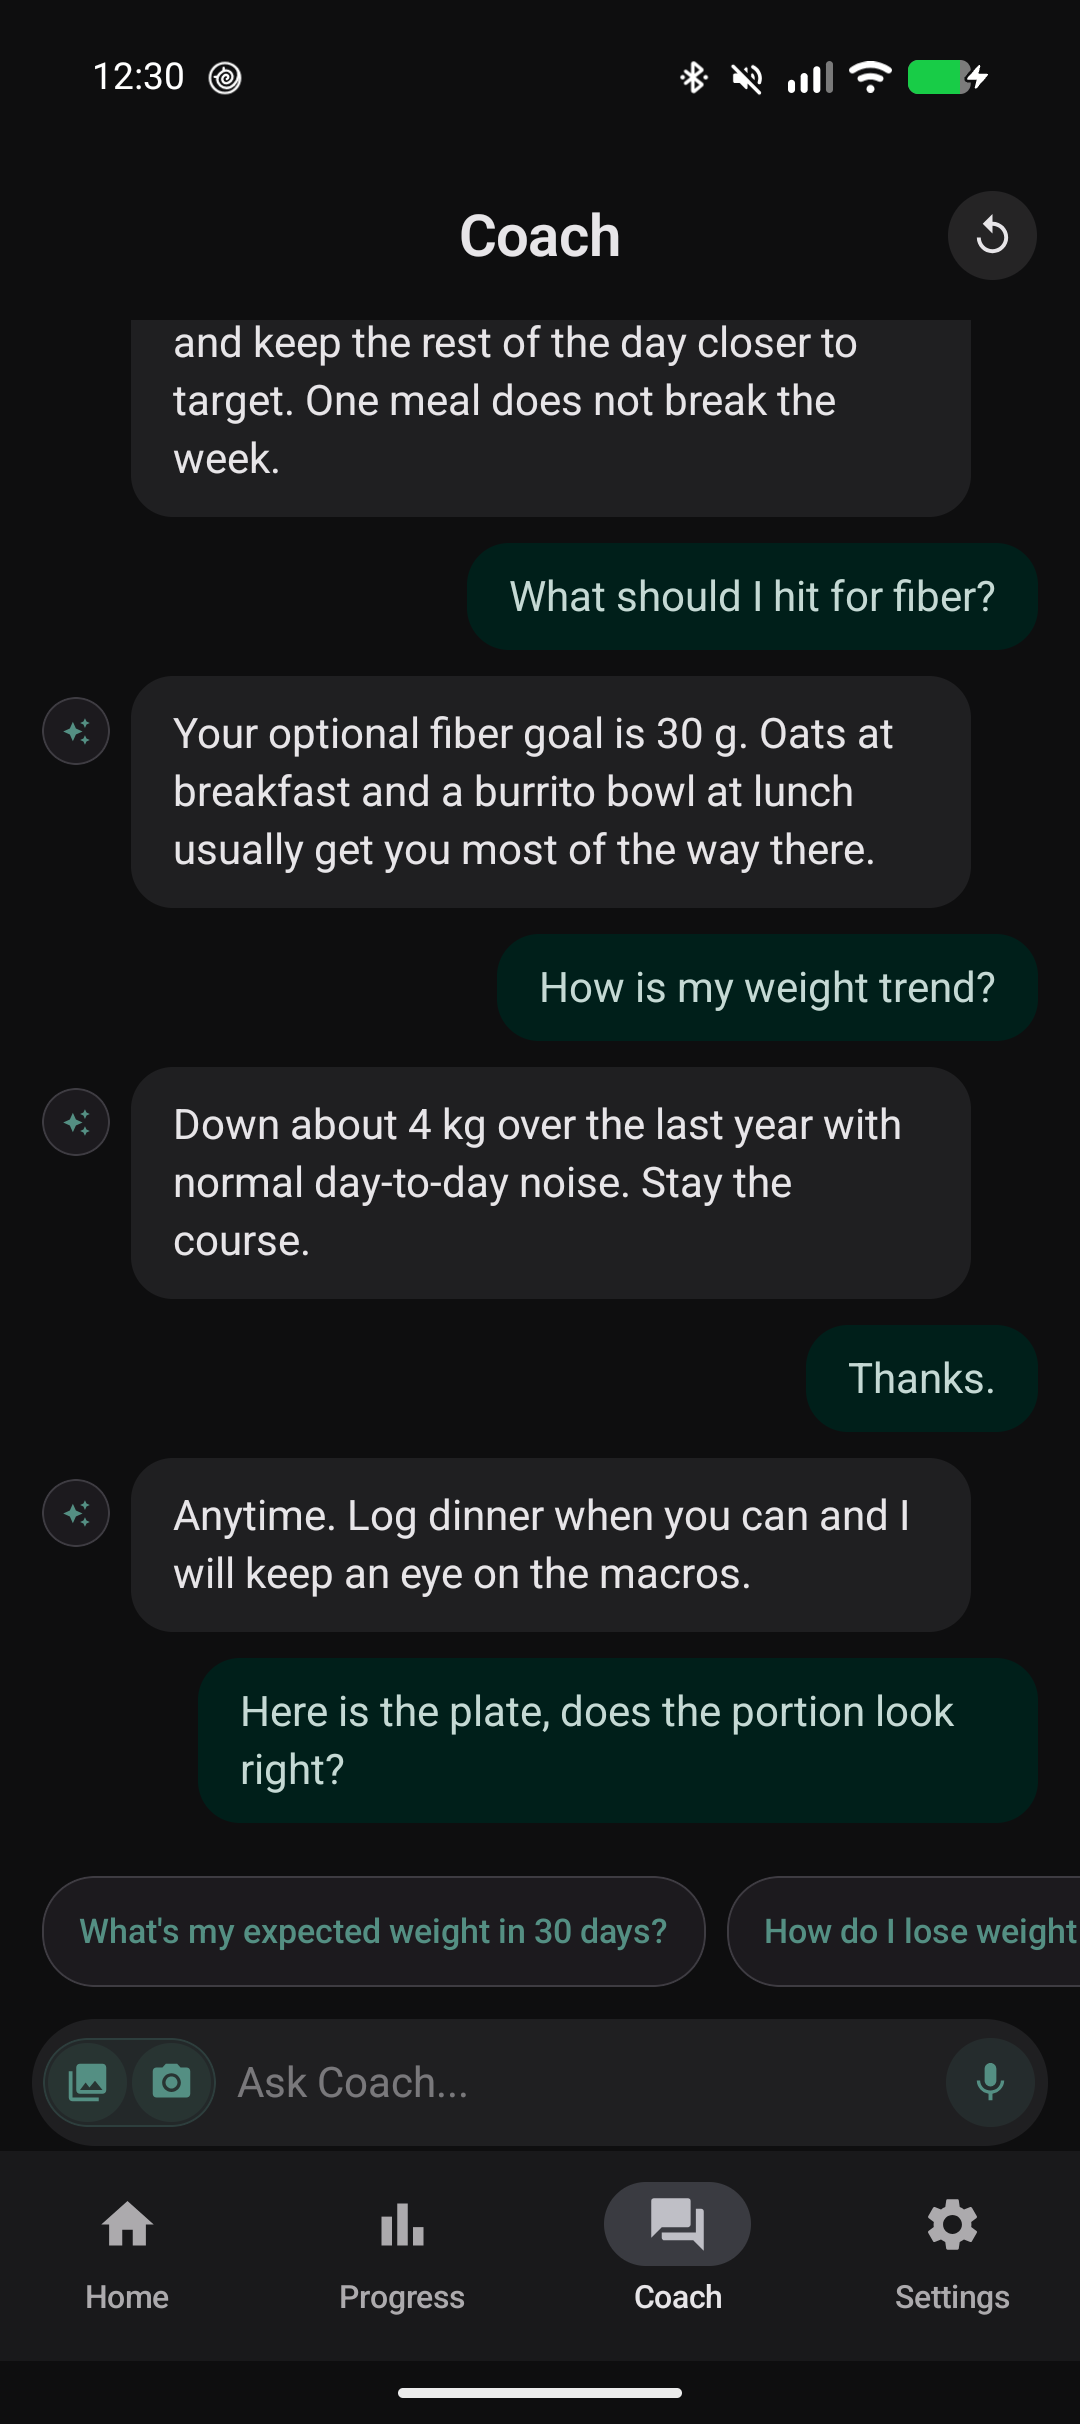
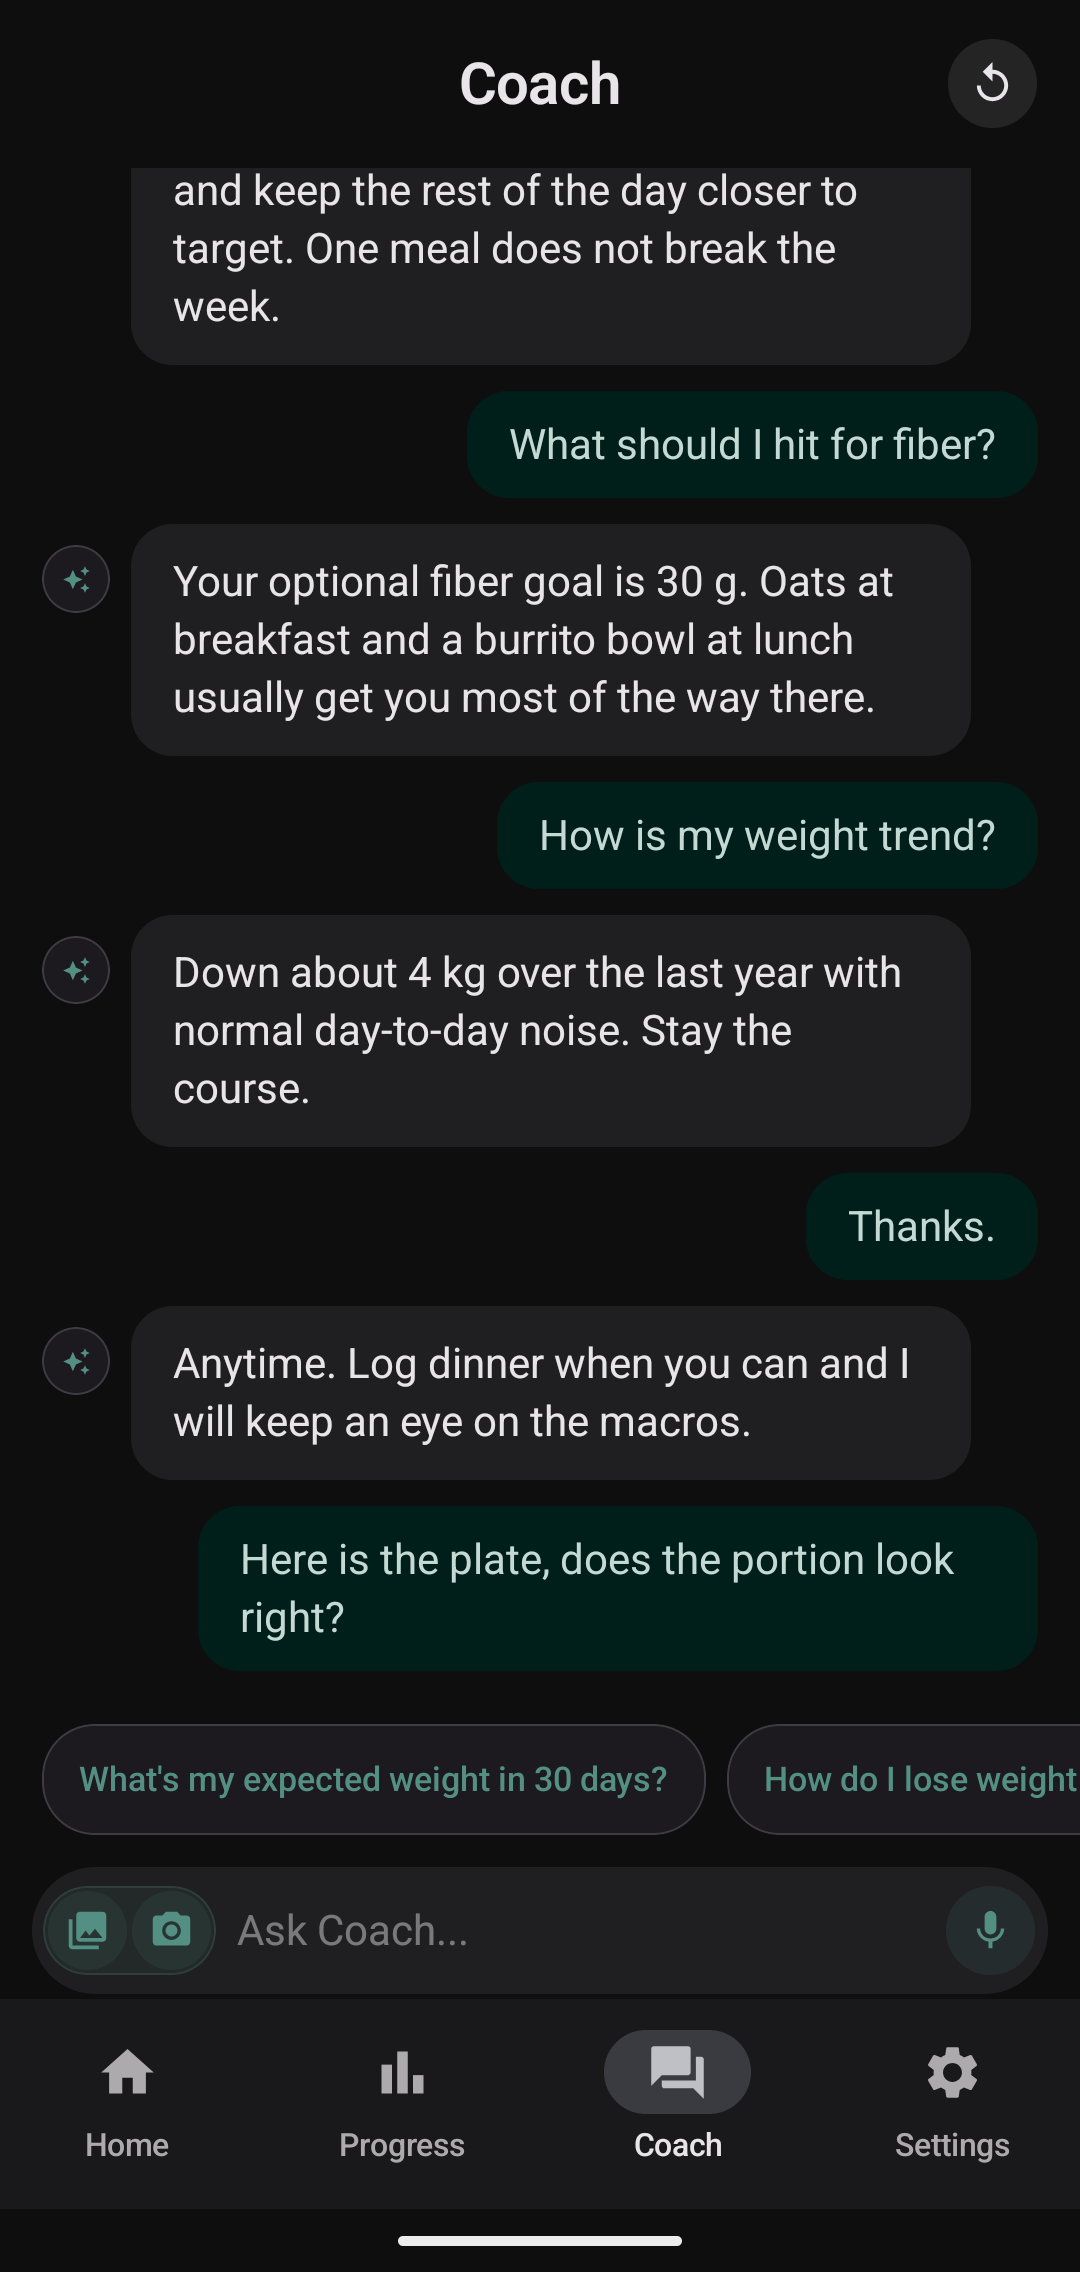
screenshots: crop the device status bar from published images
Clock, battery, VPN, and the GrapheneOS USB-debug notification icon were device state, not product UI, and demo mode cannot hide system notifications. The capture now reads the statusBars inset frame and crops that strip from every exported PNG (docs/screenshots, release-screenshots, F-Droid metadata), keeping the full frames in the gitignored staging dir. Published size is 1080x2272 on the Pixel 9a; the site gallery aspect follows.

Also pin the Add Food hub to the Recents tab: the saved-meals tab persists in prefs, so a previous run left the shot showing Recipes.

diff --git a/website/layouts/index.html b/website/layouts/index.html
@@ -62,9 +62,9 @@
         {{- else -}}
         <div class="video-fallback">
           <noscript>
-            <img src="{{ "screenshots/home.png" | relURL }}" alt="" width="200" height="449" />
-            <img src="{{ "screenshots/add-food.png" | relURL }}" alt="" width="200" height="449" />
-            <img src="{{ "screenshots/progress.png" | relURL }}" alt="" width="200" height="449" />
+            <img src="{{ "screenshots/home.png" | relURL }}" alt="" width="200" height="421" />
+            <img src="{{ "screenshots/add-food.png" | relURL }}" alt="" width="200" height="421" />
+            <img src="{{ "screenshots/progress.png" | relURL }}" alt="" width="200" height="421" />
           </noscript>
         </div>
         {{- end -}}

diff --git a/docs/DEVELOPMENT.md b/docs/DEVELOPMENT.md
@@ -126,8 +126,9 @@ devenv tasks run release:screenshots       # + refresh JVM preview references
 It builds/installs `app.chompass.debug`, seeds `seed_full`, pins the teal palette
 + dark/light (`screenshot_appearance`), forces the app locale to en-US for the
 shot, drives tabs via `chompass://go/<dest>` and sheets via uiautomator text
-selectors, then restores locale/animation scales. A full run also refreshes the
-F-Droid listing images (`metadata/en-US/images/phoneScreenshots/`). See
+selectors, crops the device status bar from every exported PNG, then restores
+locale/animation scales. A full run also refreshes the F-Droid listing images
+(`metadata/en-US/images/phoneScreenshots/`). See
 [`RELEASE.md`](RELEASE.md) § Release screenshots.
 
 ## Project website (Codeberg Pages)

diff --git a/docs/RELEASE.md b/docs/RELEASE.md
@@ -152,7 +152,9 @@ Codeberg applies a combined quota for **releases, packages, LFS, and attachments
 ## Release screenshots (real device)
 
 Published images are captured from the **real app on a physical device** — native
-panel resolution, real Compose frames, real seeded data, real system bars. The
+panel resolution, real Compose frames, real seeded data, and the real navigation
+bar. The system status bar (clock, battery, VPN, notification icons) is cropped
+from every exported PNG, so device state never reaches a published image. The
 JVM `@PreviewTest` renderings stay as the deterministic pixel-regression harness.
 
 ```bash
